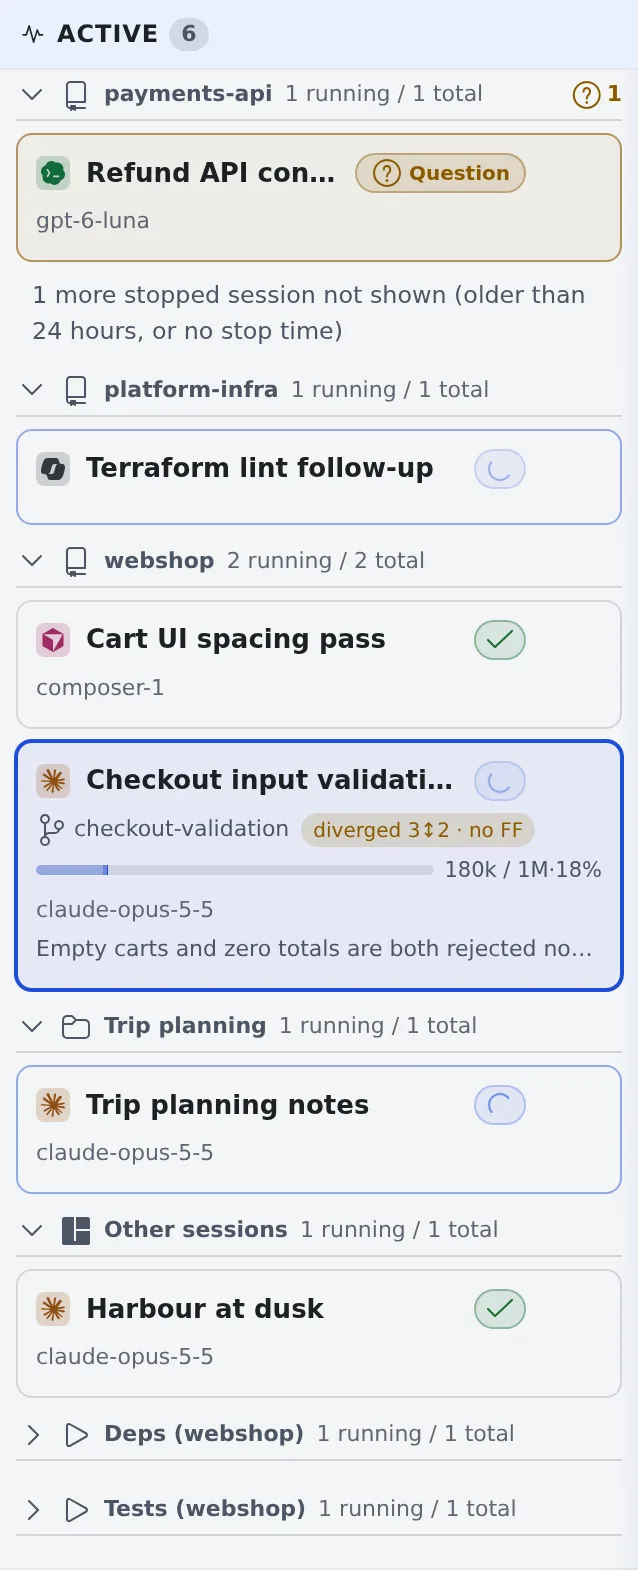
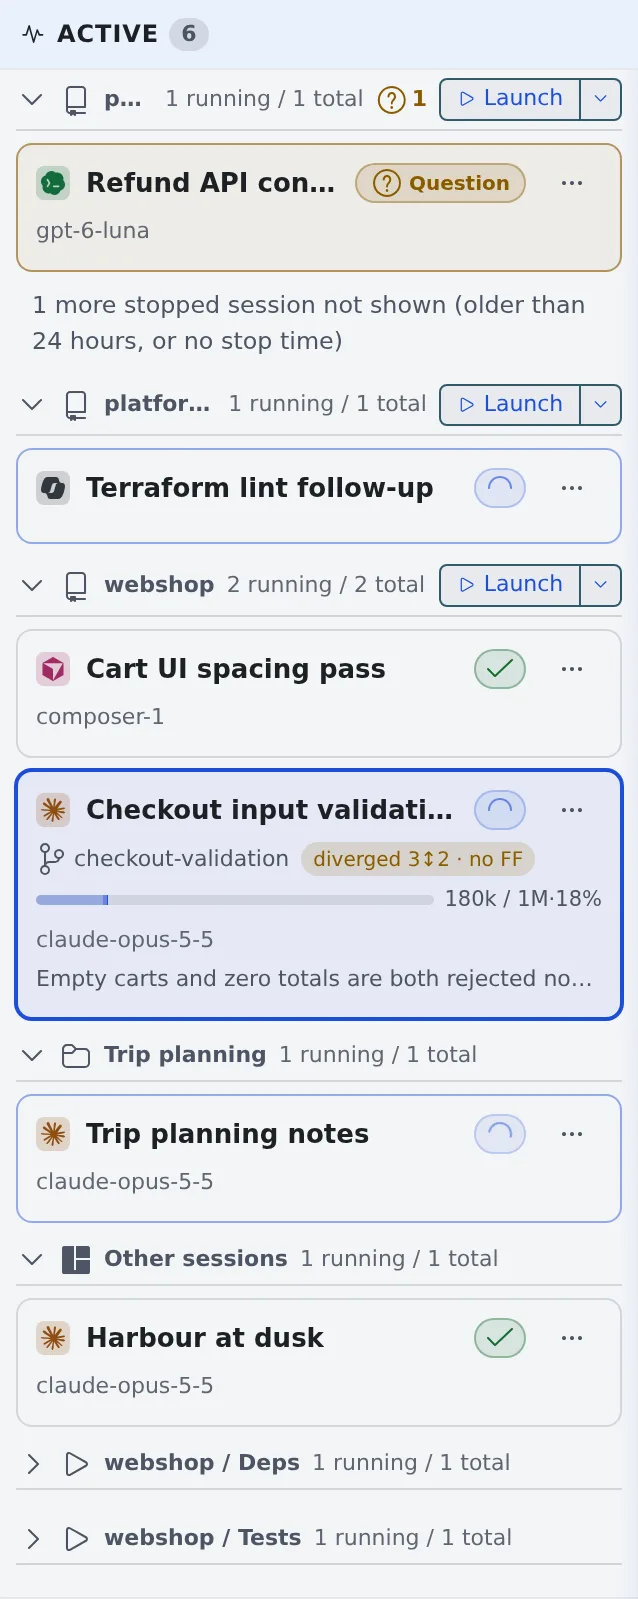
fix(console): name and group Active queue headings as the Auto-run view does
Root cause: the Active view labelled a queue `{category} ({repo})` through
its own i18n key and grouped runs by the raw queueCategoryId, so a deleted
or not-yet-loaded category got its own generic heading per id, while the
Auto-run view shows `repo / category` and folds unknown categories into one
"Other runs" group.

Fix: share one `queueLabel` helper between both views and drop the
`active.queue_group` key. A run whose category the queue list does not name
now joins the single generic group, headed "Other runs". The guide (en/ja)
and the Active screenshots are updated for the new text.

Verified: vitest for active/autorun/i18n (223 + i18n green), tsc clean; a
mutant that keeps grouping by the raw id fails the new tests; the en
screenshot was retaken with the capture harness and read back.

Changed region(s): [[0.0, 0.0312, 0.9828, 0.8739], [0.0893, 0.9051, 0.8041, 0.9675], [0.0298, 0.9051, 0.0596, 0.9363]]

diff --git a/console/src/features/active/ActiveSection.dom.test.tsx b/console/src/features/active/ActiveSection.dom.test.tsx
@@ -607,7 +607,7 @@ describe("ActiveSection", () => {
 
     it("come last, start folded with their counts, and open on the heading, remembered per tenant", async () => {
       await render(list);
-      expect(heads()).toEqual(["Other sessions", "Auto-run", "Schedules"]);
+      expect(heads()).toEqual(["Other sessions", "Other runs", "Schedules"]);
       expect(cards()).toEqual(["home"]);
       expect(headBtn("u:autorun").getAttribute("aria-expanded")).toBe("false");
       expect(headBtn("u:autorun").querySelector(".ovw-gcount")?.textContent).toBe("2 running / 2 total");
@@ -630,10 +630,8 @@ describe("ActiveSection", () => {
         sess("run-b", { origin: "queue", queueCategoryId: "b" }),
       ];
       await render(runs);
-      expect(heads()).toEqual(["Auto-run", "Auto-run"]);
-      expect(headBtn("u:autorun:a").getAttribute("aria-expanded")).toBe("false");
-      expect(headBtn("u:autorun:b").getAttribute("aria-expanded")).toBe("false");
-      await act(async () => headBtn("u:autorun:a").click());
+      // Until the queue list loads, no category is known: one "Other runs" group, as in the Auto-run view.
+      expect(heads()).toEqual(["Other runs"]);
       const cache = useQueueSettingsCache.getState();
       await act(async () => cache.publish(queueScope(), cache.begin(), readMemoQueues({
         queues: [
@@ -641,16 +639,17 @@ describe("ActiveSection", () => {
           { categoryId: "b", category: "Builds", repo: "app", categoryPosition: 1 },
         ],
       })!));
-      expect(heads()).toEqual(["Builds (app)", "Reviews (app)"]);
-      expect(headBtn("u:autorun:a").getAttribute("aria-label")).toBe("Reviews (app), 2 running / 2 total");
-      expect(headBtn("u:autorun:a").getAttribute("aria-expanded")).toBe("true");
+      expect(heads()).toEqual(["app / Builds", "app / Reviews"]);
+      expect(headBtn("u:autorun:a").getAttribute("aria-label")).toBe("app / Reviews, 2 running / 2 total");
+      expect(headBtn("u:autorun:a").getAttribute("aria-expanded")).toBe("false");
       expect(headBtn("u:autorun:b").getAttribute("aria-expanded")).toBe("false");
+      await act(async () => headBtn("u:autorun:a").click());
       expect(cards()).toEqual(["run-a"]);
       expect(JSON.parse(readFoldValue(ACTIVE_GROUPS_OPENED_KEY) || "[]")).toEqual(["u:autorun:a"]);
+      // Its queue settings vanish: the run folds into the one "Other runs" group.
       await act(async () => cache.applyRemoved(queueScope(), "a"));
-      expect(heads()).toEqual(["Builds (app)", "Auto-run"]);
-      expect(headBtn("u:autorun:a").getAttribute("aria-expanded")).toBe("true");
-      expect(cards()).toEqual(["run-a"]);
+      expect(heads()).toEqual(["app / Builds", "Other runs"]);
+      expect(cards()).toEqual([]);
     });
 
     it("Schedules folds, opens and is stored like Auto-run, and a shown schedule worktree child is listed once", async () => {

diff --git a/console/src/features/active/ActiveSection.tsx b/console/src/features/active/ActiveSection.tsx
@@ -30,7 +30,8 @@ import { useQueueSettings } from "../memo/queueSettingsCache.ts";
 import { useShownSchedules } from "../schedules/store.ts";
 import { spacesFor, spacesOwner, useSpacesStore } from "../spaces/store.ts";
 import { SessionCard } from "../overview/SessionCard.tsx";
-import { activeGroups, activeLaunchCopies, isUnattendedKind } from "./active.ts";
+import { queueLabel } from "../memo/queueLabel.ts";
+import { AUTORUN_GROUP, activeGroups, activeLaunchCopies, isUnattendedKind } from "./active.ts";
 import type { ActiveGroup } from "./active.ts";
 import { ActiveRepoLaunch } from "./ActiveRepoLaunch.tsx";
 import { useActiveExpanded, useActiveFoldedGroups, useActiveOpenedGroups } from "./store.ts";
@@ -98,8 +99,8 @@ export const ActiveSection = memo(function ActiveSection() {
     if (g.kind === "other") return tr("pj.other_sessions");
     if (g.kind === "schedule") return tr("sched.title");
     if (g.kind !== "autorun") return g.label;
-    if (g.hint) return tr("active.queue_group", { category: g.label, repo: g.hint });
-    return g.label || tr("memo.autorun");
+    // Known queues read as the Auto-run view names them; every other run is "Other runs" there too.
+    return queueLabel({ repo: g.hint, category: g.label }) || (g.key === AUTORUN_GROUP ? tr("autorun.other") : tr("memo.autorun"));
   };
   // Headings and checkout choices are sorted with the locale's collation.
   const locale = useLocale();

diff --git a/console/src/lib/i18n/locales/ja/common.ts b/console/src/lib/i18n/locales/ja/common.ts
@@ -387,8 +387,7 @@ export const common = {
   "active.launch_missing": "このリポジトリで使えるローカルの作業コピーがありません。",
   "active.hidden_waiting_hint_one": "畳んだ子セッションのうち {count} 本があなたの回答を待っています",
   "active.hidden_waiting_hint_other": "畳んだ子セッションのうち {count} 本があなたの回答を待っています",
-  "active.queue_group": "{category}（{repo}）",
-  "active.group_waiting_hint_one": "このグループの {count} 本があなたの回答を待っています",
+    "active.group_waiting_hint_one": "このグループの {count} 本があなたの回答を待っています",
   "active.group_waiting_hint_other": "このグループの {count} 本があなたの回答を待っています",
   "active.older_stopped_one": "ほかに停止中のセッション {count} 本（24 時間より前、または停止時刻が不明）",
   "active.older_stopped_other": "ほかに停止中のセッション {count} 本（24 時間より前、または停止時刻が不明）",

diff --git a/console/src/features/autorun/AutoRunSection.tsx b/console/src/features/autorun/AutoRunSection.tsx
@@ -3,6 +3,7 @@
 // repository tree. A row opens the run's session; the sessions the run started (reviewers) sit
 // one level under it, and finished runs fold into "Ended N".
 import { NO_AUTOFILL } from "../../ui/noAutofill.ts";
+import { queueLabel } from "../memo/queueLabel.ts";
 import { memo, useCallback, useEffect, useLayoutEffect, useMemo, useRef, useState } from "react";
 import { createPortal } from "react-dom";
 import type { KeyboardEvent, MouseEvent } from "react";
@@ -533,7 +534,7 @@ export const AutoRunSection = memo(function AutoRunSection() {
   }, [shown, activeName, place]);
   const labelOf = (id: string): string => {
     const q = queues.find((x) => x.categoryId === id);
-    return q ? [q.repo, q.category].filter(Boolean).join(" / ") || tr("memo.autorun") : tr("autorun.other");
+    return q ? queueLabel(q) || tr("memo.autorun") : tr("autorun.other");
   };
   const [folds, setFolds] = useState<Record<string, CatFold>>({});
   const [q, setQ] = useState("");

diff --git a/console/src/features/active/active.test.ts b/console/src/features/active/active.test.ts
@@ -312,13 +312,13 @@ describe("unattended groups", () => {
     ];
     const g = activeGroups(queued, repos, [], null, new Set(["helper"]), undefined, true, 0, queues);
     expect(g.map((x) => x.key).slice(1)).toEqual([
-      "u:autorun:first", "u:autorun:second", "u:autorun", "u:autorun:deleted", "u:schedule",
+      "u:autorun:first", "u:autorun:second", "u:autorun", "u:schedule",
     ]);
     expect(g[1]).toMatchObject({ label: "Zulu", hint: "app", total: 2, alive: 1 });
     expect(names(g[1].sessions)).toEqual(["helper", "reviewer"]);
     expect(names(g[2].sessions)).toEqual(["second"]);
-    expect(names(g[3].sessions)).toEqual(["run"]);
-    expect(names(g[4].sessions)).toEqual(["unknown"]);
+    // The category-less run and the one whose category is gone share one generic group.
+    expect(names(g[3].sessions).sort()).toEqual(["run", "unknown"]);
   });
 
   it("does not list a schedule's worktree child twice when its schedule shows in Sessions", () => {

diff --git a/console/src/features/active/active.ts b/console/src/features/active/active.ts
@@ -285,8 +285,10 @@ export function activeGroups(
     const root = sessionAutoRoot(s, allByName, shown);
     if (!root) continue;
     const autorun = root.origin === "queue";
-    const category = autorun ? root.queueCategoryId : undefined;
-    const key = autorun ? (category ? AUTORUN_GROUP + ":" + category : AUTORUN_GROUP) : SCHEDULE_GROUP;
+    // A category the queue list does not name (deleted settings, list not loaded, no category)
+    // joins the one generic group, as "Other runs" does in the Auto-run view.
+    const named = autorun && root.queueCategoryId ? AUTORUN_GROUP + ":" + root.queueCategoryId : "";
+    const key = autorun ? (queueOrder.has(named) ? named : AUTORUN_GROUP) : SCHEDULE_GROUP;
     const q = queueOrder.get(key)?.q;
     const id: GroupId = { key, kind: autorun ? "autorun" : "schedule", label: q?.category || "", hint: q?.repo || "" };
     const g = members.get(id.key) || { id, sessions: [] };

diff --git a/console/src/lib/i18n/locales/en/common.ts b/console/src/lib/i18n/locales/en/common.ts
@@ -385,8 +385,7 @@ export const common: Record<keyof typeof jaCommon, string> = {
   "active.launch_missing": "No local checkout is available for this repository.",
   "active.hidden_waiting_hint_one": "{count} folded child session is waiting for your answer",
   "active.hidden_waiting_hint_other": "{count} folded child sessions are waiting for your answer",
-  "active.queue_group": "{category} ({repo})",
-  "active.group_waiting_hint_one": "{count} session in this group is waiting for your answer",
+    "active.group_waiting_hint_one": "{count} session in this group is waiting for your answer",
   "active.group_waiting_hint_other": "{count} sessions in this group are waiting for your answer",
   "active.older_stopped_one": "{count} more stopped session not shown (older than 24 hours, or no stop time)",
   "active.older_stopped_other": "{count} more stopped sessions not shown (older than 24 hours, or no stop time)",

diff --git a/console/src/features/memo/queueLabel.ts b/console/src/features/memo/queueLabel.ts
@@ -1,0 +1,8 @@
+import type { MemoQueue } from "../../types/memo.ts";
+
+/** A queue's heading, `repo / category`, shared by the Auto-run view and the Active view so
+ *  one queue reads the same in both. Empty when the queue names neither; the caller picks the
+ *  fallback. */
+export function queueLabel(q: Pick<MemoQueue, "repo" | "category">): string {
+  return [q.repo, q.category].filter(Boolean).join(" / ");
+}

diff --git a/guide/user/fleet/overview.ja.md b/guide/user/fleet/overview.ja.md
@@ -85,7 +85,7 @@ source_of_truth: "Console のセッション一覧ペイン"
 |---|---|
 | 見出し | リポジトリ、スペース、「その他のセッション」の順で、最後に自動実行キューと「**スケジュール**」（下）。並べるセッションがあるあいだだけ出ます。どの見出しも押して畳めて、畳んだ状態はこのブラウザが覚えます。畳んだ見出しには、全体のうち稼働中の本数と、そのうち回答を待っている本数が出ます |
 | **起動** と隣の ▼ | 「リポジトリ」の行と同じ分割ボタンが、リポジトリの見出しにあります。見出しを畳んだままでも使えます。**起動** はベースの作業コピーからリポジトリの起動画面を開き、▼ はエージェントの一覧から選んで、プロンプトなしですぐに起動します（行の ▼ と同じです）。経路など起動画面でしか選べないものが要るエージェントは、起動画面をそのエージェントで開きます。同じリモートのクローンが複数ある場合は、どちらの操作でも先に使うフォルダを選びます。ワークスペースが停止中か、ベースの作業コピーが見つからないときは、どちらも押せません |
-| 自動実行キューと「**スケジュール**」 | 稼働中の無人の実行と、その子セッションが並びます。メモの自動実行はキューごとに見出しが付き、リポジトリ名（設定されている場合）とカテゴリ名が出ます。同じリポジトリ内ではカテゴリの順に並びます。レビューや補助のセッションも親の実行と同じ見出しに出ます。カテゴリが記録されていない以前の実行は「**自動実行**」、スケジュールの実行は「**スケジュール**」にまとまります。どの見出しも最初は畳まれています |
+| 自動実行キューと「**スケジュール**」 | 稼働中の無人の実行と、その子セッションが並びます。メモの自動実行はキューごとに見出しが付き、「自動実行」ビューと同じ「リポジトリ名 / カテゴリ名」で表示されます。同じリポジトリ内ではカテゴリの順に並びます。レビューや補助のセッションも親の実行と同じ見出しに出ます。キューが分からない実行（カテゴリが記録されていない以前の実行や、設定が削除されたキューの実行）は「**その他の実行**」にまとまり、スケジュールの実行は「**スケジュール**」にまとまります。どの見出しも最初は畳まれています |
 | カード | 稼働中のセッション、過去 24 時間以内に止まったセッション、質問・プラン・権限確認への返答や引き継ぎの受け取りを待つ停止中のセッションです。対応待ちのものは止まった時刻にかかわらず並びます。並んだセッションの子も、停止中のものを含めて並びます。親と見出しが同じなら親の下に、別のリポジトリやスペースにあるならそちらの見出しに出ます |
 | 親のカード | 同じ見出しにある子セッションを畳んだ状態で始まります。「＋N」は隠している本数、疑問符の付いた数はそのうち稼働中であなたの回答を待っている本数です。左端の矢印で開閉でき、開いた親はこのブラウザが覚えます |
 | ペイン番号 | 画面を分割しているあいだ、そのセッションを出しているペインの番号。押すとそのペインに移ります |

diff --git a/guide/user/fleet/overview.md b/guide/user/fleet/overview.md
@@ -85,7 +85,7 @@ It lists running sessions, recent stops and sessions that still need your attent
 |---|---|
 | Headings | Repositories first, then spaces, then "Other sessions", and last the auto-run queues and **Schedules** (below). A heading appears only while it has a session to list. Every heading folds; press it to fold or open, and this browser remembers which you folded. A folded heading shows how many sessions are running out of the total, and how many of them wait for your answer |
 | **Launch** and the ▼ next to it | The same split button as on a row in **Repositories**, on every repository heading, even while it is folded. **Launch** opens the usual repository launch dialog from the base checkout; ▼ lists the agents and starts one at once, without a prompt, as on a row; when the agent needs a choice only the dialog offers (a route), it opens the launch dialog on that agent instead. When several local clones share the remote, choose the folder to use first, for either part. Both are unavailable while the workspace is stopped or when there is no local base checkout |
-| Auto-run queues and **Schedules** | Running unattended runs and their child sessions. Each memo queue has a heading showing its repository (if set) and category, in category order within each repository. Reviewers and other child sessions stay with their run. Older runs without a category appear under **Auto-run**. Scheduled runs appear under **Schedules**. Each heading starts folded |
+| Auto-run queues and **Schedules** | Running unattended runs and their child sessions. Each memo queue has a heading named as in the **Auto-run** view, `repository / category`, in category order within each repository. Reviewers and other child sessions stay with their run. Runs whose queue is unknown (an older run without a category, or a queue whose settings were deleted) appear together under **Other runs**. Scheduled runs appear under **Schedules**. Each heading starts folded |
 | Cards | Running sessions, sessions that stopped within the last 24 hours, and stopped sessions with an unanswered question, plan or permission request, or an untaken handoff. The last group stays listed regardless of stop time. Listed sessions also bring along their child sessions, including stopped ones. A child appears under its parent within the same heading, or under its own repository or space heading |
 | A parent's card | Starts with the child sessions under the same heading folded. "+N" is how many it hides; the number with the question mark is how many of those are running and wait for your answer. The arrow at the left opens and folds them, and this browser remembers which you opened |
 | Pane numbers | The panes that show the session, while the screen is split. Click a number to go to that pane |
